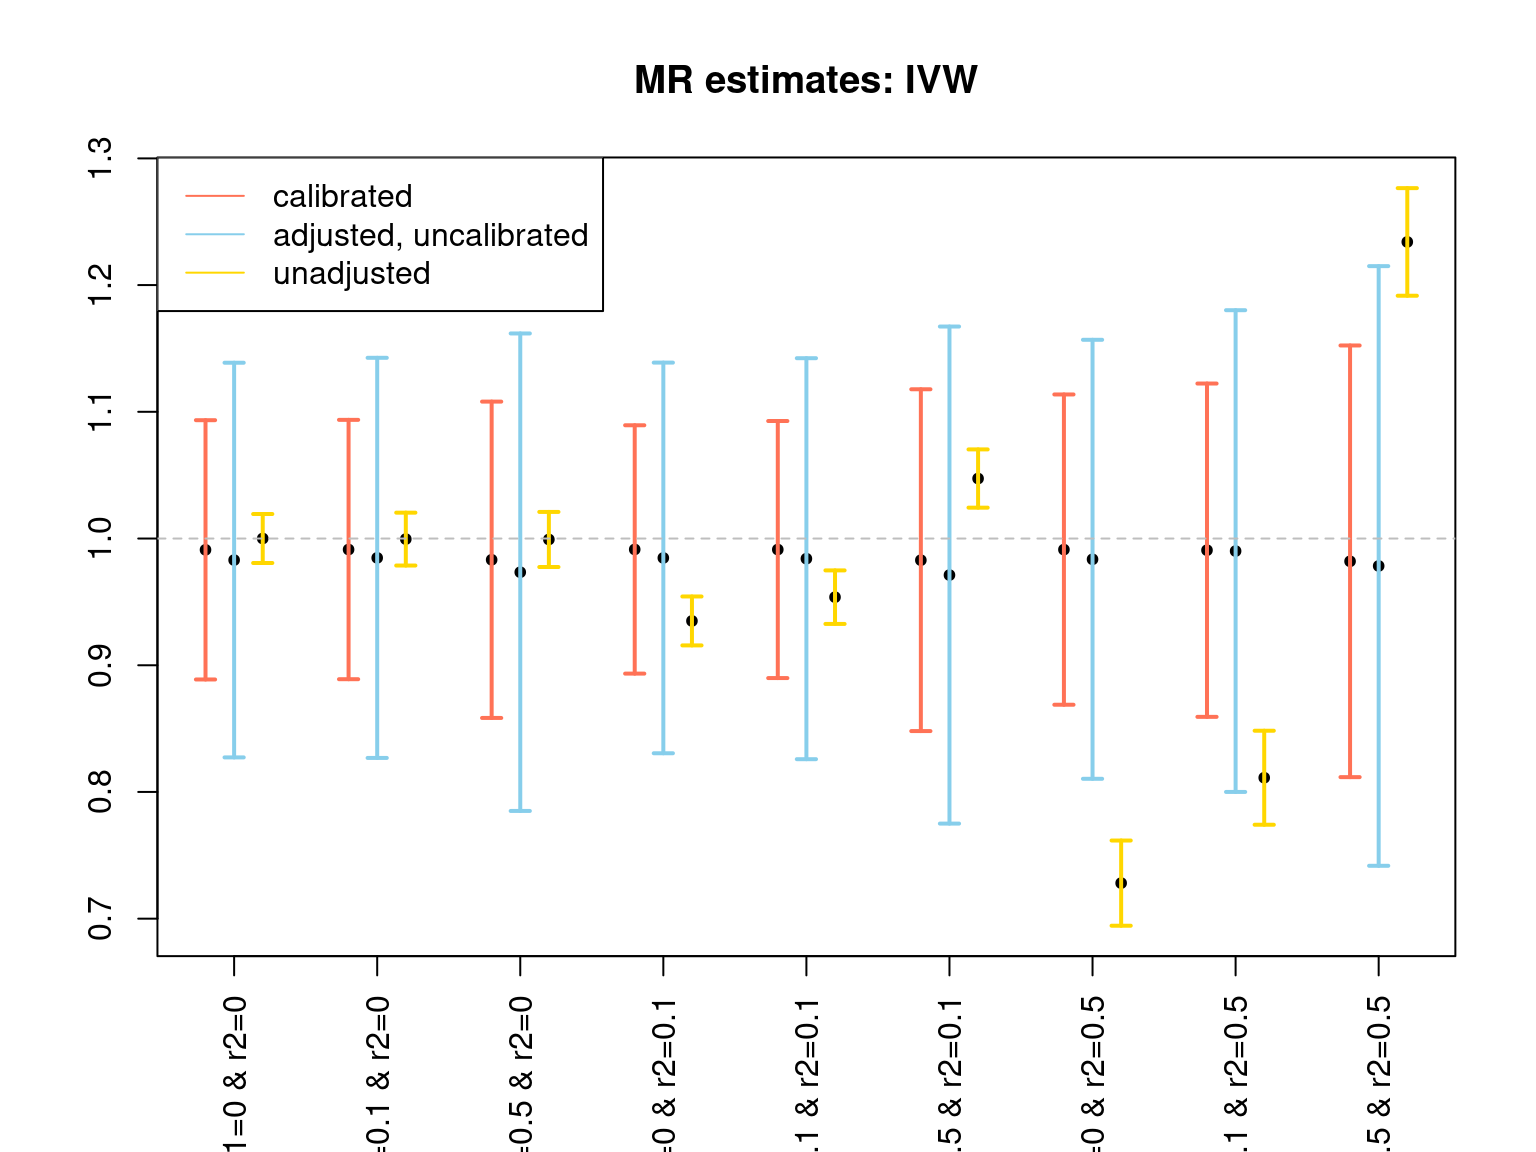
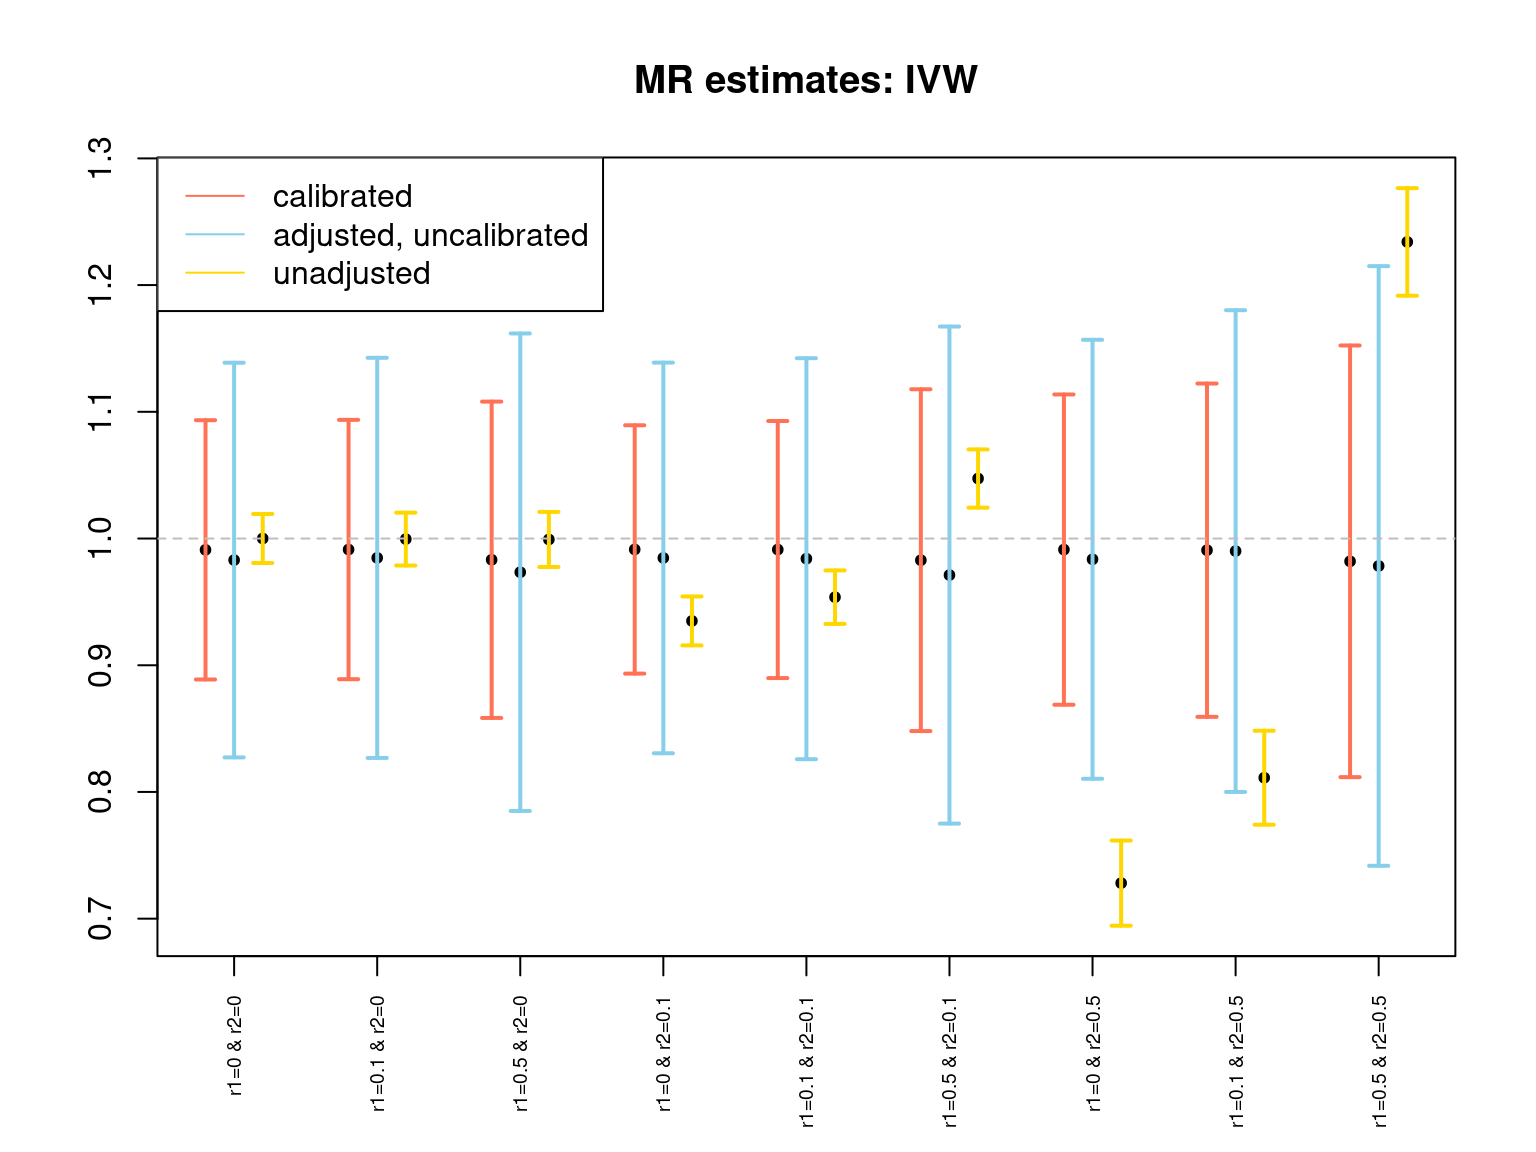
Build site.

diff --git a/docs/mr_trio.html b/docs/mr_trio.html
@@ -522,15 +522,15 @@ project makes it easier to run your code on other machines.</p>
 <div class="panel panel-default">
 <div class="panel-heading">
 <p class="panel-title">
-<a data-toggle="collapse" data-parent="#workflowr-checks" href="#strongRepositoryversionstrongahrefhttpsgithubcomyunqiyang0215simulationcalibratedmrtree6f33255da61cb371f5e8052c22e6f5f830b6c907targetblank6f33255a">
+<a data-toggle="collapse" data-parent="#workflowr-checks" href="#strongRepositoryversionstrongahrefhttpsgithubcomyunqiyang0215simulationcalibratedmrtreeeb84d48cae662a00dcd9f522ccaf2fba4c137916targetblankeb84d48a">
 <span class="glyphicon glyphicon-ok text-success"
 aria-hidden="true"></span> <strong>Repository version:</strong>
-<a href="https://github.com/yunqiyang0215/simulation-calibrated-mr/tree/6f33255da61cb371f5e8052c22e6f5f830b6c907" target="_blank">6f33255</a>
+<a href="https://github.com/yunqiyang0215/simulation-calibrated-mr/tree/eb84d48cae662a00dcd9f522ccaf2fba4c137916" target="_blank">eb84d48</a>
 </a>
 </p>
 </div>
 <div
[2 lines of base64/hex data omitted]
 class="panel-collapse collapse">
 <div class="panel-body">
 <p>
@@ -540,7 +540,7 @@ reproducibility.
 </p>
 <p>
 The results in this page were generated with repository version
-<a href="https://github.com/yunqiyang0215/simulation-calibrated-mr/tree/6f33255da61cb371f5e8052c22e6f5f830b6c907" target="_blank">6f33255</a>.
+<a href="https://github.com/yunqiyang0215/simulation-calibrated-mr/tree/eb84d48cae662a00dcd9f522ccaf2fba4c137916" target="_blank">eb84d48</a>.
 See the <em>Past versions</em> tab to see a history of the changes made
 to the R Markdown and HTML files.
 </p>
@@ -610,6 +610,40 @@ Message
 </tr>
 </thead>
 <tbody>
+<tr>
+<td>
+Rmd
+</td>
+<td>
+<a href="https://github.com/yunqiyang0215/simulation-calibrated-mr/blob/eb84d48cae662a00dcd9f522ccaf2fba4c137916/analysis/mr_trio.Rmd" target="_blank">eb84d48</a>
+</td>
+<td>
+yunqi yang
+</td>
+<td>
+2024-04-20
+</td>
+<td>
+wflow_publish("analysis/mr_trio.Rmd")
+</td>
+</tr>
+<tr>
+<td>
+html
+</td>
+<td>
+<a href="https://rawcdn.githack.com/yunqiyang0215/simulation-calibrated-mr/c6cbd7c62e0d146b37d2586998d9e84a06535f35/docs/mr_trio.html" target="_blank">c6cbd7c</a>
+</td>
+<td>
+yunqi yang
+</td>
+<td>
+2024-04-20
+</td>
+<td>
+Build site.
+</td>
+</tr>
 <tr>
 <td>
 Rmd
@@ -923,7 +957,7 @@ arrows(x0 = x_pos, y0 = means - 1.96*ses, x1 = x_pos, y1 = means + 1.96*ses,
        code = 3, angle = 90, length = 0.05, lwd = 2, col = rep(c(&quot;coral1&quot;, &quot;skyblue&quot;, &quot;gold&quot;), ncomb))
 abline(h = 1, lty =2, col = &quot;grey&quot;)
 
-axis(1, at = c(1:ncomb), labels = labels, las = 2)
+axis(1, at = c(1:ncomb), labels = labels, las = 2, cex.axis = 0.6)
 legend(&quot;topleft&quot;, legend = c(&quot;calibrated&quot;, &quot;adjusted, uncalibrated&quot;, &quot;unadjusted&quot;), lty = 1, col = c(&quot;coral1&quot;, &quot;skyblue&quot;, &quot;gold&quot;))</code></pre>
 <p><img src="figure/mr_trio.Rmd/unnamed-chunk-4-1.png" width="768" style="display: block; margin: auto;" /></p>
 <p>
@@ -948,6 +982,17 @@ Date
 </tr>
 </thead>
 <tbody>
+<tr>
+<td>
+<a href="https://github.com/yunqiyang0215/simulation-calibrated-mr/blob/c6cbd7c62e0d146b37d2586998d9e84a06535f35/docs/figure/mr_trio.Rmd/unnamed-chunk-4-1.png" target="_blank">c6cbd7c</a>
+</td>
+<td>
+yunqi yang
+</td>
+<td>
+2024-04-20
+</td>
+</tr>
 <tr>
 <td>
 <a href="https://github.com/yunqiyang0215/simulation-calibrated-mr/blob/9dc602e5d6f9934800379ebe99c37a4d1236807a/docs/figure/mr_trio.Rmd/unnamed-chunk-4-1.png" target="_blank">9dc602e</a>
@@ -1165,6 +1210,17 @@ Date
 <tbody>
 <tr>
 <td>
+<a href="https://github.com/yunqiyang0215/simulation-calibrated-mr/blob/c6cbd7c62e0d146b37d2586998d9e84a06535f35/docs/figure/mr_trio.Rmd/unnamed-chunk-9-1.png" target="_blank">c6cbd7c</a>
+</td>
+<td>
+yunqi yang
+</td>
+<td>
+2024-04-20
+</td>
+</tr>
+<tr>
+<td>
 <a href="https://github.com/yunqiyang0215/simulation-calibrated-mr/blob/d99a5512a7d90339d8e8d3291445afae1a9e33ac/docs/figure/mr_trio.Rmd/unnamed-chunk-9-1.png" target="_blank">d99a551</a>
 </td>
 <td>
@@ -1219,6 +1275,17 @@ Date
 </tr>
 </thead>
 <tbody>
+<tr>
+<td>
+<a href="https://github.com/yunqiyang0215/simulation-calibrated-mr/blob/c6cbd7c62e0d146b37d2586998d9e84a06535f35/docs/figure/mr_trio.Rmd/unnamed-chunk-10-1.png" target="_blank">c6cbd7c</a>
+</td>
+<td>
+yunqi yang
+</td>
+<td>
+2024-04-20
+</td>
+</tr>
 <tr>
 <td>
 <a href="https://github.com/yunqiyang0215/simulation-calibrated-mr/blob/d99a5512a7d90339d8e8d3291445afae1a9e33ac/docs/figure/mr_trio.Rmd/unnamed-chunk-10-1.png" target="_blank">d99a551</a>
@@ -1408,6 +1475,17 @@ Date
 </tr>
 </thead>
 <tbody>
+<tr>
+<td>
+<a href="https://github.com/yunqiyang0215/simulation-calibrated-mr/blob/c6cbd7c62e0d146b37d2586998d9e84a06535f35/docs/figure/mr_trio.Rmd/unnamed-chunk-15-1.png" target="_blank">c6cbd7c</a>
+</td>
+<td>
+yunqi yang
+</td>
+<td>
+2024-04-20
+</td>
+</tr>
 <tr>
 <td>
 <a href="https://github.com/yunqiyang0215/simulation-calibrated-mr/blob/d99a5512a7d90339d8e8d3291445afae1a9e33ac/docs/figure/mr_trio.Rmd/unnamed-chunk-15-1.png" target="_blank">d99a551</a>
